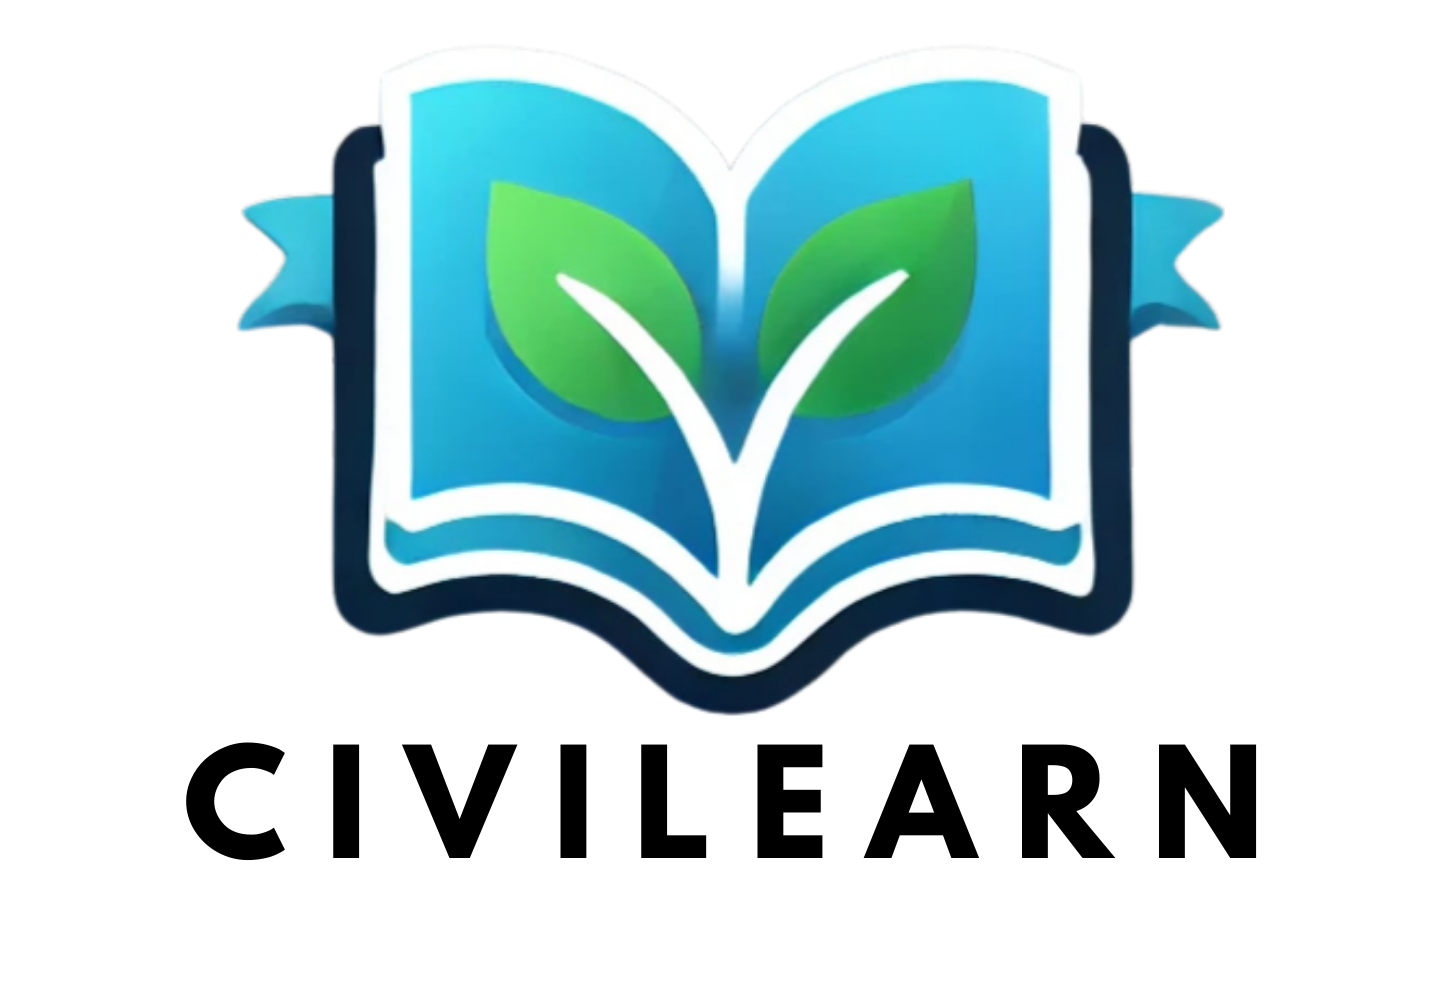
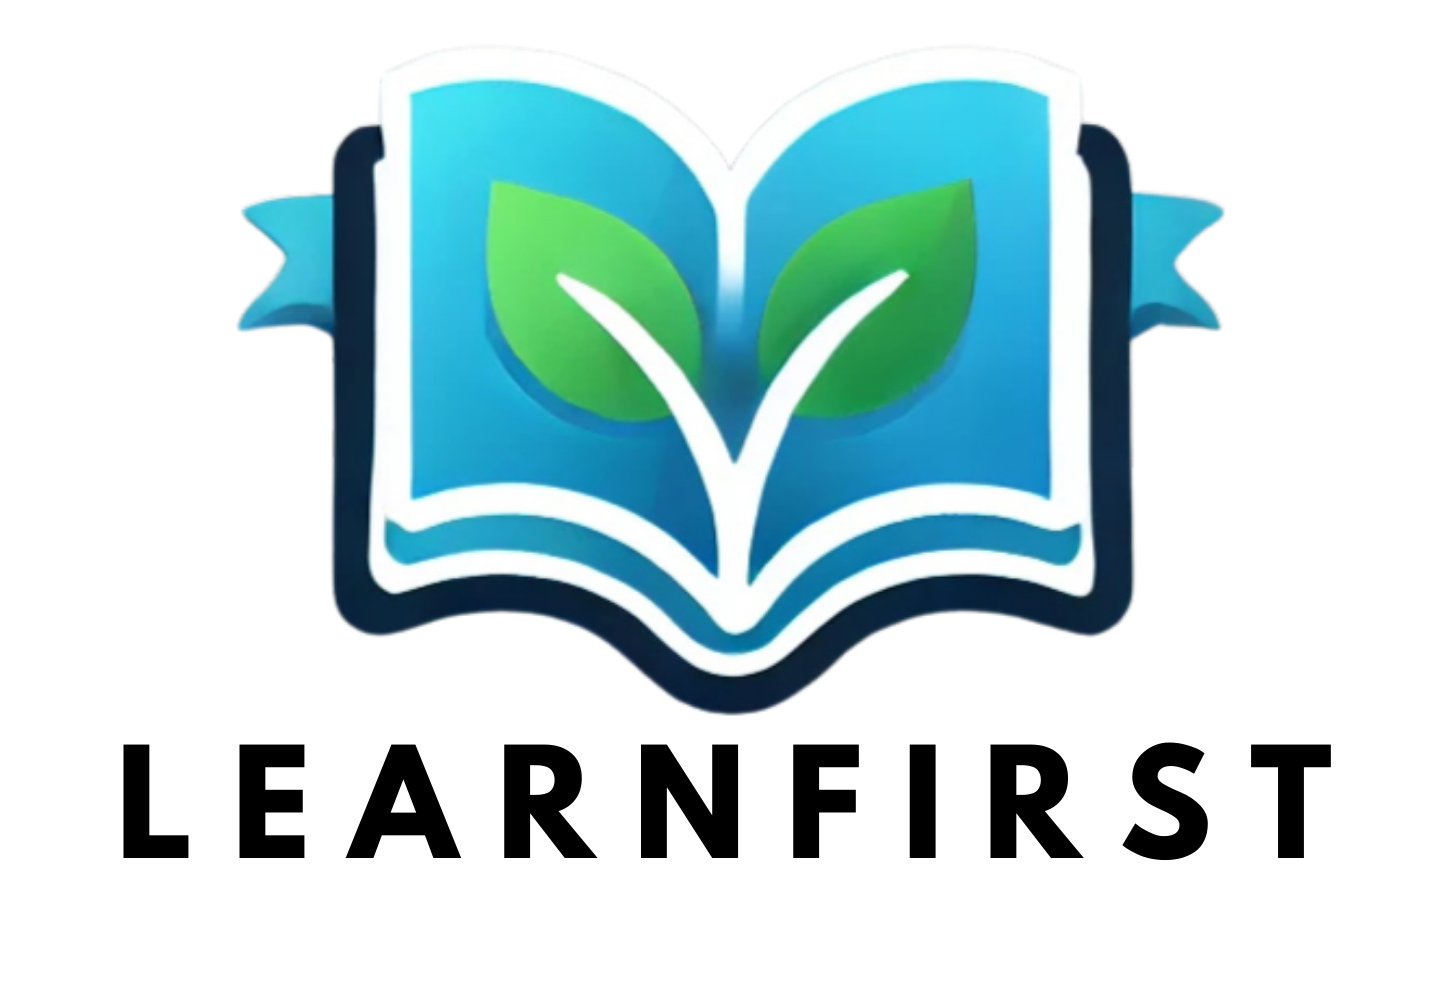
learfirst

Changed region(s): [[0.4354, 0.7485, 0.933, 0.8732], [0.0622, 0.7485, 0.4043, 0.8732]]

diff --git a/app/Views/home_view.php b/app/Views/home_view.php
@@ -133,7 +133,7 @@
             <div class="offcanvas-menu-footer d-lg-none">
               <div>
                 +6281357181360<br>
-                <a href="#">civilearn@gmail.com</a>
+                <a href="#">learnfirst@gmail.com</a>
                 <nav class="social__links-type2 d-flex justify-content-start mt-2">
                   <a href="#"><i class="bi bi-twitter twitter-color"></i></a>
                   <a href="#"><i class="bi bi-facebook facebook-color"></i></a>
@@ -173,19 +173,19 @@
           <div class="col-md-7">
             <div class=" carousel-caption text-start center-align position-relative">
               <h1 class="animate__animated animate__zoomInUp">
-                Apa itu CiviLearn
+                Apa itu Learn First
                 <br class="d-none d-lg-block">
                 <!-- <Span>Your Brighter Future </Span> -->
 
               </h1>
               <p class="animate__animated animate__zoomInUp">
-                Civilearn adalah platform e-course yang dirancang untuk mendukung kebutuhan belajar akademis Anda.
+                Learn First adalah platform e-course yang dirancang untuk mendukung kebutuhan belajar akademis Anda.
                 <br class="d-none d-lg-block">
-                Dengan materi berkualitas tinggi yang disusun oleh para ahli, Civilearn membantu siswa, mahasiswa,
+                Dengan materi berkualitas tinggi yang disusun oleh para ahli, Learn First membantu siswa, mahasiswa,
                 <br class="d-none d-lg-block">
                 dan profesional menguasai berbagai topik akademis secara fleksibel dan interaktif.
                 <br class="d-none d-lg-block">
-                Tingkatkan keterampilan dan pemahaman Anda kapan saja, di mana saja bersama Civilearn!"
+                Tingkatkan keterampilan dan pemahaman Anda kapan saja, di mana saja bersama Learn First!"
               </p>
               <div class="animate__animated animate__fadeInDown ">
                 <a class="btn btn-primary btn-size shadow-1" href="#">Jelajahi Kursus</a>
@@ -255,7 +255,7 @@
             <div class="about-content">
               <h4 class="subheading-style-01">Tentang Kami</h4>
               <h2>Tingkatkan Skill, Wujudkan Karir Impian</h2>
-              <p>Civilearn hadir untuk membantu Anda mengembangkan keterampilan dan memperluas peluang karir melalui e-course berkualitas. Bersama kami, wujudkan masa depan cerah dan sukses yang Anda impikan.</p>
+              <p>Learn First hadir untuk membantu Anda mengembangkan keterampilan dan memperluas peluang karir melalui e-course berkualitas. Bersama kami, wujudkan masa depan cerah dan sukses yang Anda impikan.</p>
               <div class="row mt-0">
                 <div class="col-6 d-flex gap-4 about-usp">
                   <div class="icon icon-bg icon-circle icon_size-sm">
@@ -425,7 +425,7 @@
         <!-- Col 2: Address and Phone -->
         <div class="col text-center">
           <address>
-            CiviLearn<br>
+            Learn First<br>
             Ini Alamat<br>
             <strong>Phone No.</strong> +6281357181360
           </address>

diff --git a/app/Views/course_detail.php b/app/Views/course_detail.php
@@ -99,7 +99,7 @@
                     <div class="offcanvas-menu-footer d-lg-none">
                         <div>
                             +6281357181360<br>
-                            <a href="#">civilearn@gmail.com</a>
+                            <a href="#">learnfirst@gmail.com</a>
                             <nav class="social__links-type2 d-flex justify-content-start mt-2">
                                 <a href="#"><i class="bi bi-twitter twitter-color"></i></a>
                                 <a href="#"><i class="bi bi-facebook facebook-color"></i></a>
@@ -507,7 +507,7 @@
                 <!-- Col 2: Address and Phone -->
                 <div class="col text-center">
                     <address>
-                        CiviLearn<br>
+                        Learn First<br>
                         Ini Alamat<br>
                         <strong>Phone No.</strong> +6281357181360
                     </address>

diff --git a/app/Views/courses_view.php b/app/Views/courses_view.php
@@ -96,7 +96,7 @@
                     <div class="offcanvas-menu-footer d-lg-none">
                         <div>
                             +6281357181360<br>
-                            <a href="#">civilearn@gmail.com</a>
+                            <a href="#">learnfirst@gmail.com</a>
                             <nav class="social__links-type2 d-flex justify-content-start mt-2">
                                 <a href="#"><i class="bi bi-twitter twitter-color"></i></a>
                                 <a href="#"><i class="bi bi-facebook facebook-color"></i></a>
@@ -469,7 +469,7 @@
                 <!-- Col 2: Address and Phone -->
                 <div class="col text-center">
                     <address>
-                        CiviLearn<br>
+                        Learn First<br>
                         Ini Alamat<br>
                         <strong>Phone No.</strong> +6281357181360
                     </address>

diff --git a/app/Views/instructor_profile.php b/app/Views/instructor_profile.php
@@ -305,7 +305,7 @@
                 <!-- Col 2: Address and Phone -->
                 <div class="col text-center">
                     <address>
-                        CiviLearn<br>
+                        Learn First<br>
                         Ini Alamat<br>
                         <strong>Phone No.</strong> +6281357181360
                     </address>

diff --git a/app/Views/instructor_view.php b/app/Views/instructor_view.php
@@ -179,7 +179,7 @@
                 <!-- Col 2: Address and Phone -->
                 <div class="col text-center">
                     <address>
-                        CiviLearn<br>
+                        Learn First<br>
                         Ini Alamat<br>
                         <strong>Phone No.</strong> +6281357181360
                     </address>
